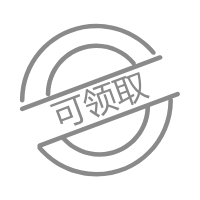
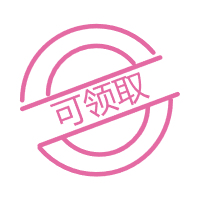
样式优化

Changed region(s): [[0.09, 0.12, 0.9, 0.9]]

diff --git a/pages/addAddress/addAddress.js b/pages/addAddress/addAddress.js
@@ -12,8 +12,8 @@ Page({
     detail_address: '', //详细地址
     consignee_name: '', //收货人
     mobile_number: '', //手机号码
-    tip:'',//判断是否从选择地址中跳转过来的标志
-    index:Number//选择地中传递过来数组下标
+    tip: '',//判断是否从选择地址中跳转过来的标志
+    index: Number//选择地中传递过来数组下标
   },
 
   //获取地区选择器
@@ -86,6 +86,20 @@ Page({
         if (flag == 1) {
           array.push(addressList);
           wx.setStorageSync('addressList', array);
+          wx.showToast({
+            title: '保存成功！',
+          })
+          setTimeout(function () {
+            wx.navigateBack({ //返回
+
+            })
+
+          }, 1000);
+        } else {
+          wx.showToast({
+            title: '已存在相同地址',
+            icon: "none"
+          })
           setTimeout(function () {
             wx.navigateBack({ //返回
 
@@ -95,11 +109,23 @@ Page({
         }
       } else { //编辑地址页面
         var addressList = wx.getStorageSync("addressList");
-        //将修改内容写入地址列表
-        addressList[changeAddress.id].consignee = e.detail.value.consignee;
-        addressList[changeAddress.id].detail_address = e.detail.value.detail_address;
-        addressList[changeAddress.id].mobile = e.detail.value.mobile;
-        addressList[changeAddress.id].region_name = this.data.region_all;
+        var flag1 = false;
+        var region_name = this.data.region_all;
+        addressList.forEach(function (v, i) {
+          if (v.consignee == e.detail.value.consignee && v.detail_address == e.detail.value.detail_address && v.mobile == e.detail.value.mobile && v.region_name == region_name && i != changeAddress.id) {
+            flag1 = true;
+          }
+        })
+        if (flag1 == false) {
+          //将修改内容写入地址列表
+          addressList[changeAddress.id].consignee = e.detail.value.consignee;
+          addressList[changeAddress.id].detail_address = e.detail.value.detail_address;
+          addressList[changeAddress.id].mobile = e.detail.value.mobile;
+          addressList[changeAddress.id].region_name = this.data.region_all;
+        } else if (flag1 == true) {
+          //如果地址列表中存在与修改后的地址相同的地址，则删除该地址
+          addressList.splice(changeAddress.id, 1);
+        }
         //将修改好的内容放进缓存
         wx.setStorageSync("addressList", addressList)
         //获取默认地址
@@ -114,13 +140,13 @@ Page({
         //将默认地址放进缓存
         wx.setStorageSync('defaultAddress', defaultAddress);
         //如果从选择地址跳转修改，则在返回前将修改后的地址放入缓存
-        if(this.data.tip){
-          var addressList=wx.getStorageSync('addressList')
-          wx.setStorageSync('selectToChange',addressList[this.data.index]);
+        if (this.data.tip) {
+          var addressList = wx.getStorageSync('addressList')
+          wx.setStorageSync('selectToChange', addressList[this.data.index]);
         }
         //延迟返回
         wx.showToast({
-          title: '保存成功！',
+          title: '修改成功！',
         })
         setTimeout(function () {
           wx.navigateBack({ //返回
@@ -267,13 +293,17 @@ Page({
     //页面刷新马上获取编辑缓存
     let changeAddress = wx.getStorageSync('changeAddress')
     //如果编辑缓存存在，更新编辑框显示内容
-    if (changeAddress) {
-      this.setData({
-        region_all: changeAddress.region_name,
-        consignee_name: changeAddress.consignee,
-        mobile_number: changeAddress.mobile,
-        detail_address: changeAddress.detail_address
-      })
+    if (changeAddress) {
+        this.setData({
+          region_all: changeAddress.region_name,
+          consignee_name: changeAddress.consignee,
+          mobile_number: changeAddress.mobile,
+        })
+        if(!this.data.detail_address){
+          this.setData({
+            detail_address:changeAddress.detail_address
+          })
+        }
       region_name = this.data.region_all;
     }
     //返回标志，放入缓存，若点击左上角返回，设置为true
@@ -287,11 +317,11 @@ Page({
     //3.获取页面标志参数tip
     var tip = currentPage.options.tip;
     //获取数组下标
-    var index=currentPage.options.index;
-    if(tip){
+    var index = currentPage.options.index;
+    if (tip) {
       this.setData({
-        tip:true,
-        index:index
+        tip: true,
+        index: index
       })
     }
   }

diff --git a/pages/addressList/addressList.js b/pages/addressList/addressList.js
@@ -94,7 +94,7 @@ Page({
     //显示是否删除该地址弹窗
     wx.showModal({
       title: '提示',
-      content: '您确定要退出登录吗？',
+      content: '您确定要删除该地址吗？',
       success: (result) => {
         if (result.confirm) {
           //获取列表中要删除项的下标
